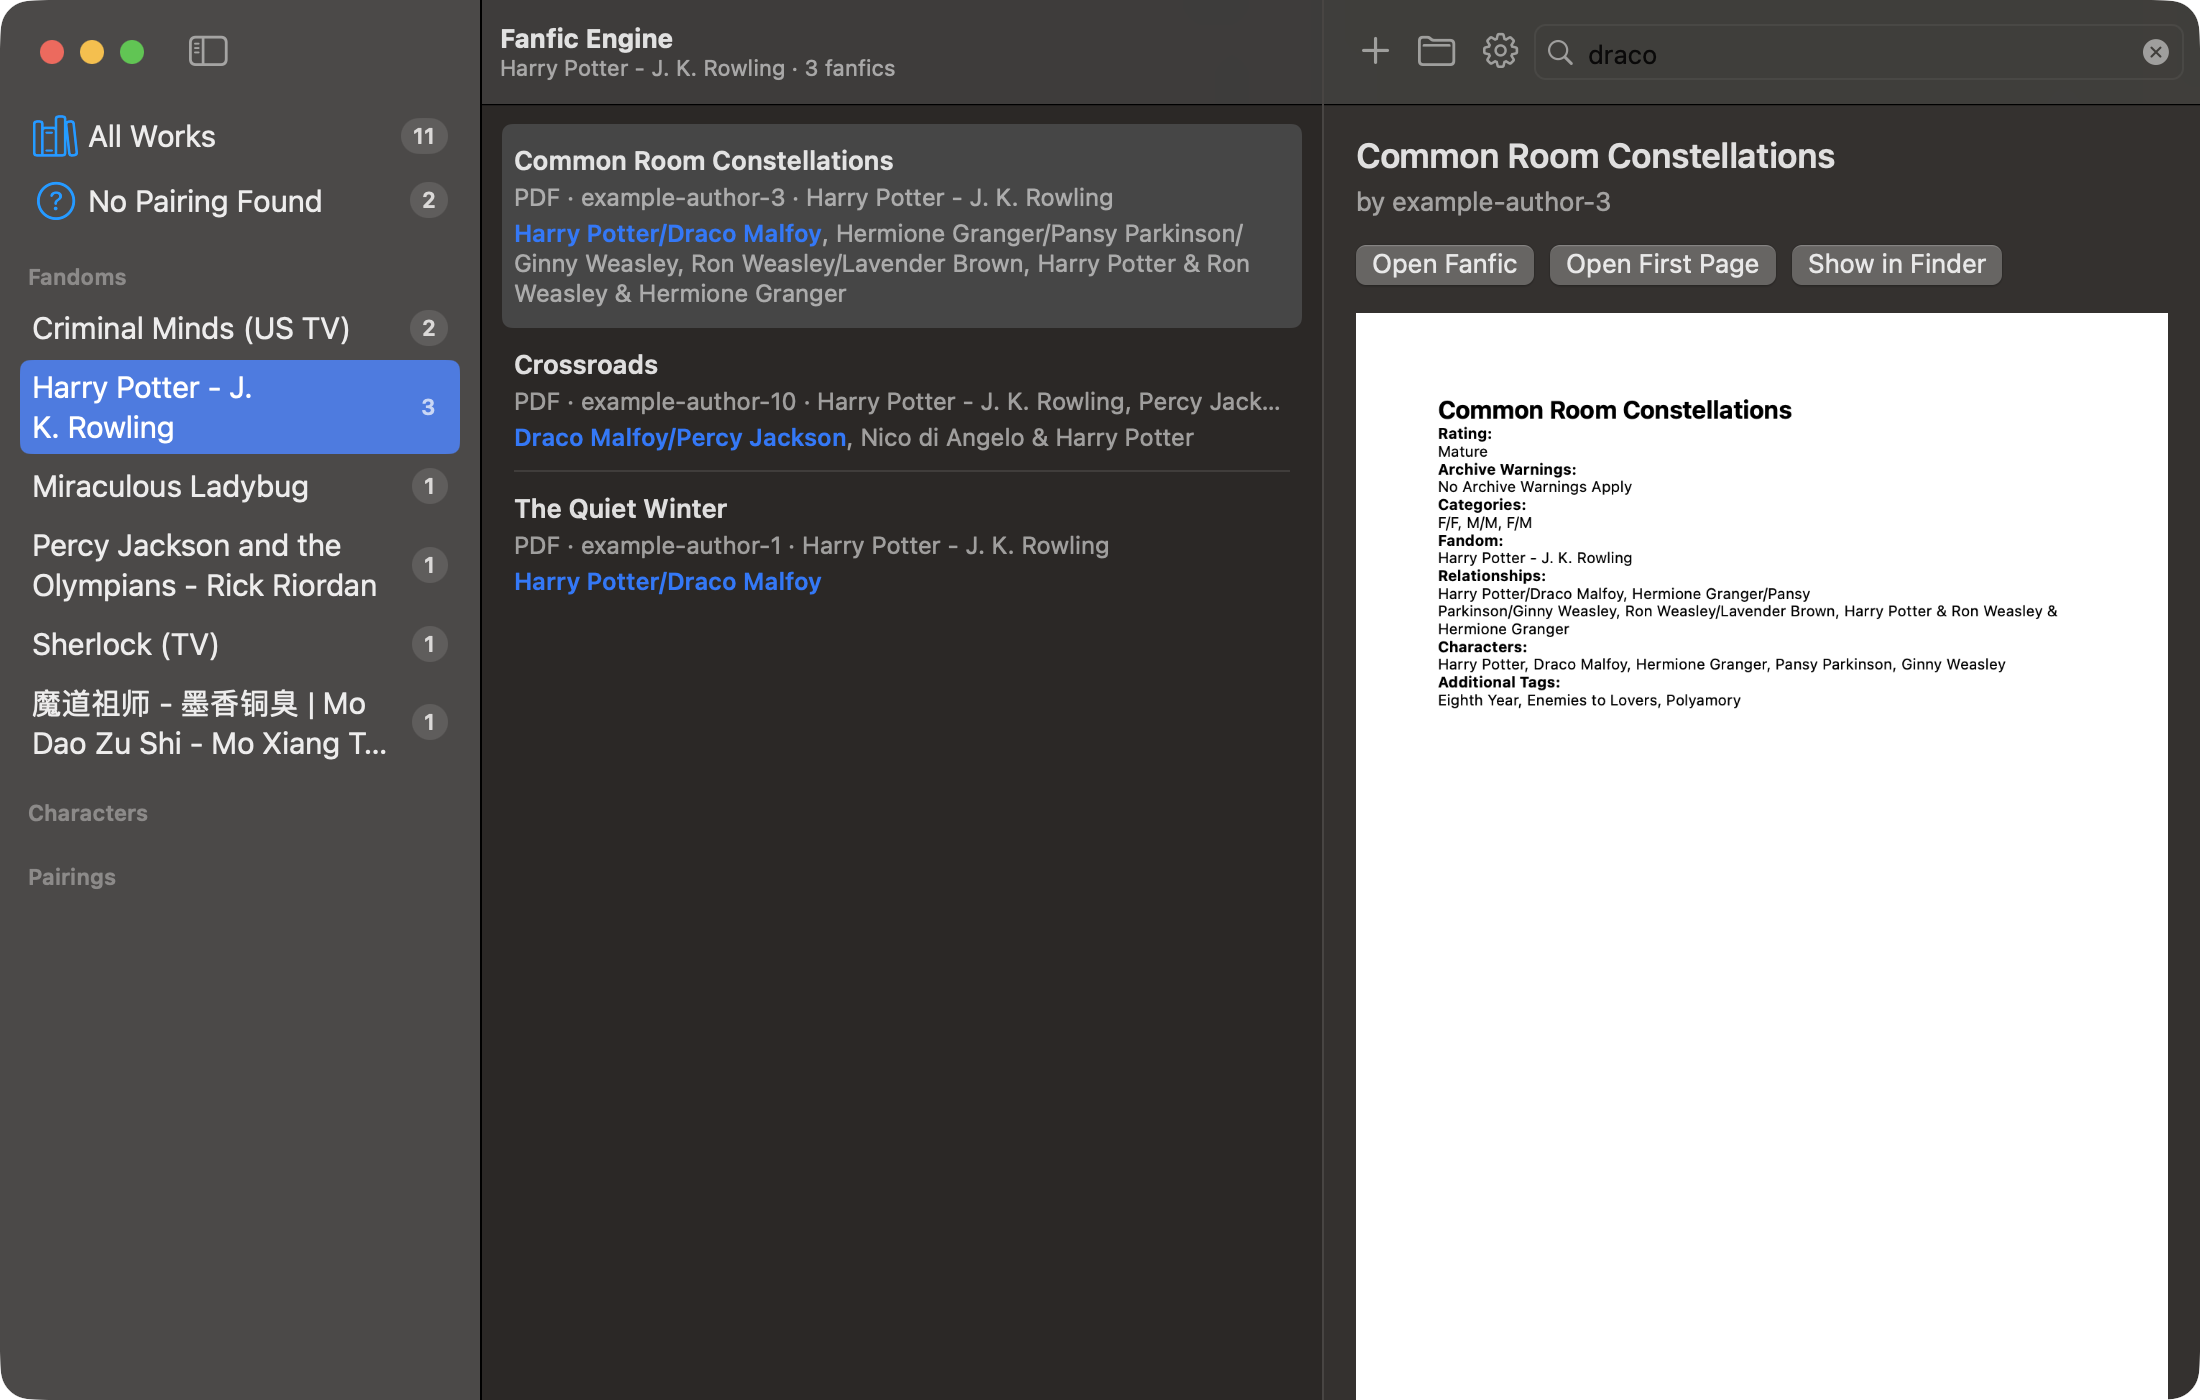
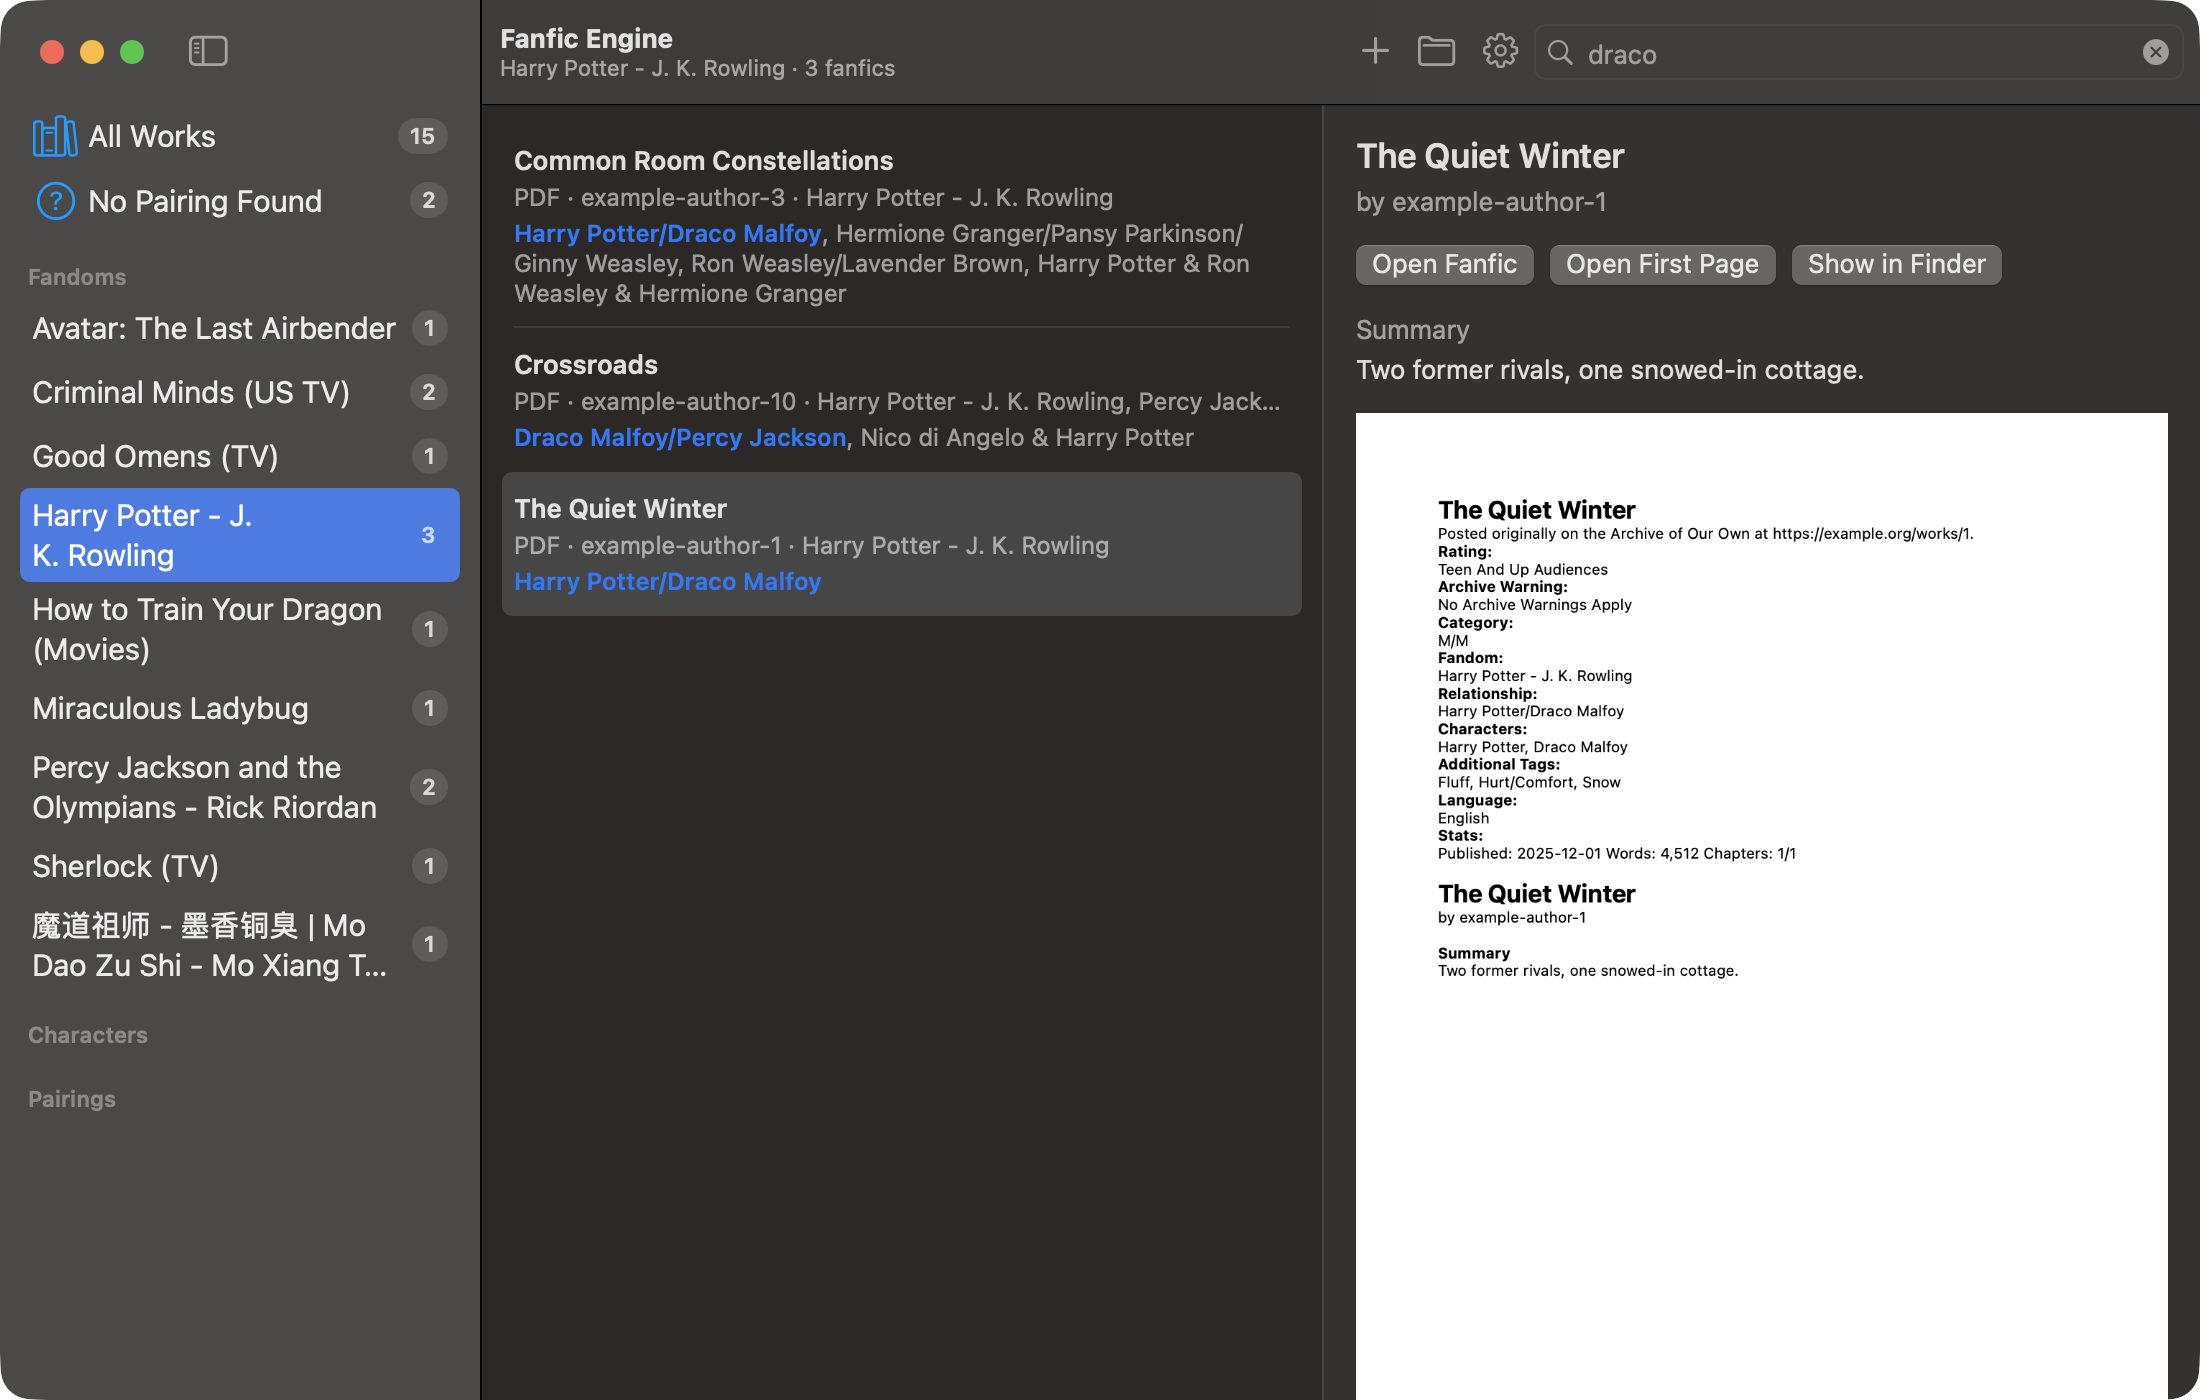
README and manual pictures for 1.1: the summary in the details column
- README: the light/dark window picture now selects a fic with a summary;
  the demo GIF shows The Quiet Winter's summary ("See each fic's summary
  and first page") and ends on Moonlit Library's summary in the Percy
  Jackson fandom.
- User manual: the fandom search picture selects The Quiet Winter.
- Developer option -windowFrame "x y width height" puts the window on a
  chosen screen (2x screenshots on a Retina display); no effect otherwise.

diff --git a/Sources/FanficEngine/FanficEngineApp.swift b/Sources/FanficEngine/FanficEngineApp.swift
@@ -74,6 +74,21 @@ final class AppDelegate: NSObject, NSApplicationDelegate {
                 try? lines.joined(separator: "\n").write(toFile: (path as NSString).expandingTildeInPath, atomically: true, encoding: .utf8)
             }
         }
+        // Developer option `-windowFrame "x y width height"` (screen points, origin bottom left): moves the window there
+        // once it is open, for example onto a Retina display for screenshots at 2x. A negative x needs a leading space
+        // (`-windowFrame " -1410 150 1100 700"`), or it is read as an option name.
+        if let numbers = UserDefaults.standard.string(forKey: "windowFrame")?.split(separator: " ").compactMap({ Double($0) }),
+           numbers.count == 4 {
+            let frame = NSRect(x: numbers[0], y: numbers[1], width: numbers[2], height: numbers[3])
+            func place(_ attempt: Int) {
+                if let window = NSApp.windows.first(where: { $0.isVisible && $0.title == "Fanfic Engine" }) {
+                    window.setFrame(frame, display: true)
+                } else if attempt < 20 {
+                    DispatchQueue.main.asyncAfter(deadline: .now() + 0.25) { place(attempt + 1) }
+                }
+            }
+            DispatchQueue.main.asyncAfter(deadline: .now() + 0.25) { place(0) }
+        }
         // Developer option `-showAppMenu YES`: opens the app menu under the window's top-left corner (screenshots).
         if UserDefaults.standard.bool(forKey: "showAppMenu") {
             DispatchQueue.main.asyncAfter(deadline: .now() + 2) {

diff --git a/docs/DEVELOPMENT.md b/docs/DEVELOPMENT.md
@@ -81,6 +81,8 @@ open -n "/Applications/Fanfic Engine.app" --args \
   -checkInBackgroundOnLaunch YES       # updater tests: a quiet check at start
   -installUpdatesImmediately YES       # updater tests: install a downloaded update at once and restart
   -windowSize 1100x1000                # window size
+  -windowFrame " -1410 150 1100 700"   # put the window at x y width height (screen points), e.g. on a Retina display
+                                       # for 2x screenshots; keep the leading space when x is negative
   -ApplePersistenceIgnoreState YES     # ignore the saved window state
 ```
 
